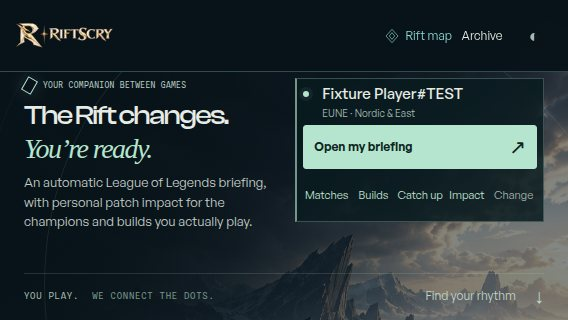
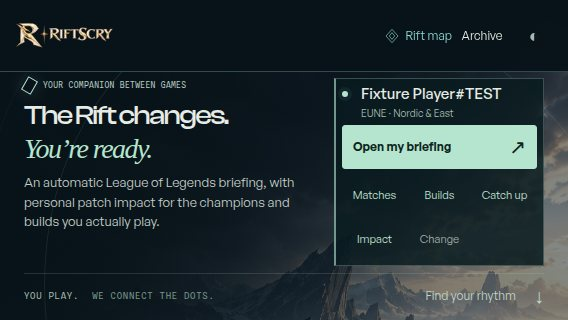
Give narrow landscape headlines enough room across Chromium versions

Changed region(s): [[0.0299, 0.25, 0.9577, 0.8438]]

diff --git a/src/styles/companion-home.css b/src/styles/companion-home.css
@@ -327,6 +327,13 @@
   .home-arrival-footer { margin-top: 6px; padding-block: 0 max(2px,env(safe-area-inset-bottom)); }
   .home-arrival-footer p > span { display: inline; margin-left: 7px; }
 }
+@media (min-width: 480px) and (max-width: 600px) and (max-height: 500px) {
+  /* Leave enough headline width for font-rendering differences; an extra line
+     must not push the opening below a short landscape viewport. */
+  .home-intro { grid-template-columns: minmax(0,1.4fr) minmax(0,1fr); column-gap: 16px; }
+  .home-launcher[data-player-state="new"] .home-launcher-actions { display: grid; grid-template-columns: minmax(0,1fr); gap: 8px; }
+  .home-launcher-shortcuts { grid-template-columns: repeat(3,minmax(44px,1fr)); }
+}
 @media (prefers-reduced-motion: reduce) {
   /* Override the global .01ms duration too: child labels and icons should not
      acquire their own color transitions when a reduced-motion tab changes. */

diff --git a/docs/viewport-polish/README.md b/docs/viewport-polish/README.md
@@ -13,6 +13,7 @@ pages, player lookup, player profiles, and match detail.
 | --- | --- |
 | Homepage introduction and full archive card stacked into one over-tall hero. | A viewport-sized opening accounts for the fixed header and safe areas. The archive preview shares the opening on roomy desktops and becomes a separate following section on narrow or short screens. All records and primary actions remain available. |
 | Returning-player controls could make the hero taller, especially in landscape. | Height-aware spacing, a landscape composition, and compact shortcut labels keep every action reachable. Long player names use visual ellipsis with the full name retained in accessible text and the title. |
+| Newer Chromium wrapped the headline at 480×320, adding 14px beyond the viewport. | Narrow landscape screens give the copy more horizontal space and stack the newcomer actions. This keeps the 28px headline, 13px body, and 44px controls; a wider-letter-spacing stress check also fits. |
 | Restoring a remembered player moved the headline by roughly 66–72px. | The introduction is positioned independently of the launcher's height. Updating the selected player keeps the headline, footer, and scroll position stationary. |
 | Switching homepage champions changed the card height by roughly 10–43px. | Panels share an intrinsic grid footprint. Inactive panels remain invisible, inert, and absent from the accessibility tree. Keyboard selection prevents focus-triggered scrolling. |
 | Patch-impact selection changed context button width by about 10px. | Selection markers have a fixed width, keeping controls stable through loading and different result sizes. |
